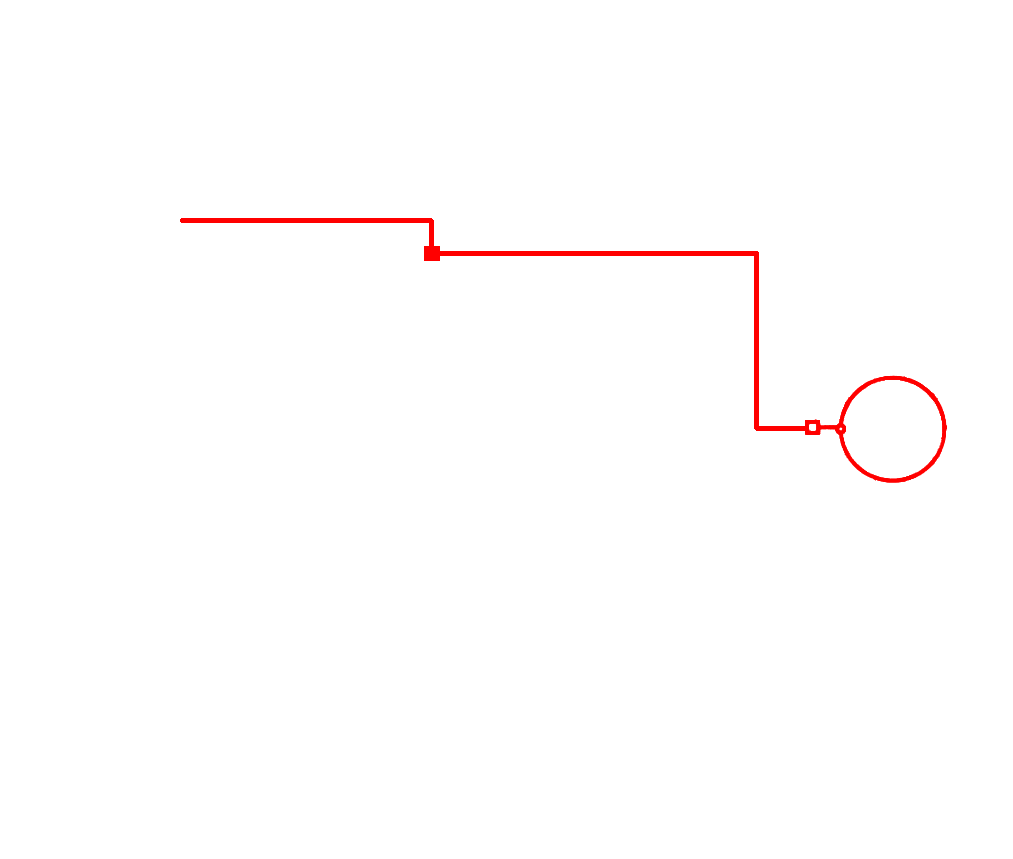
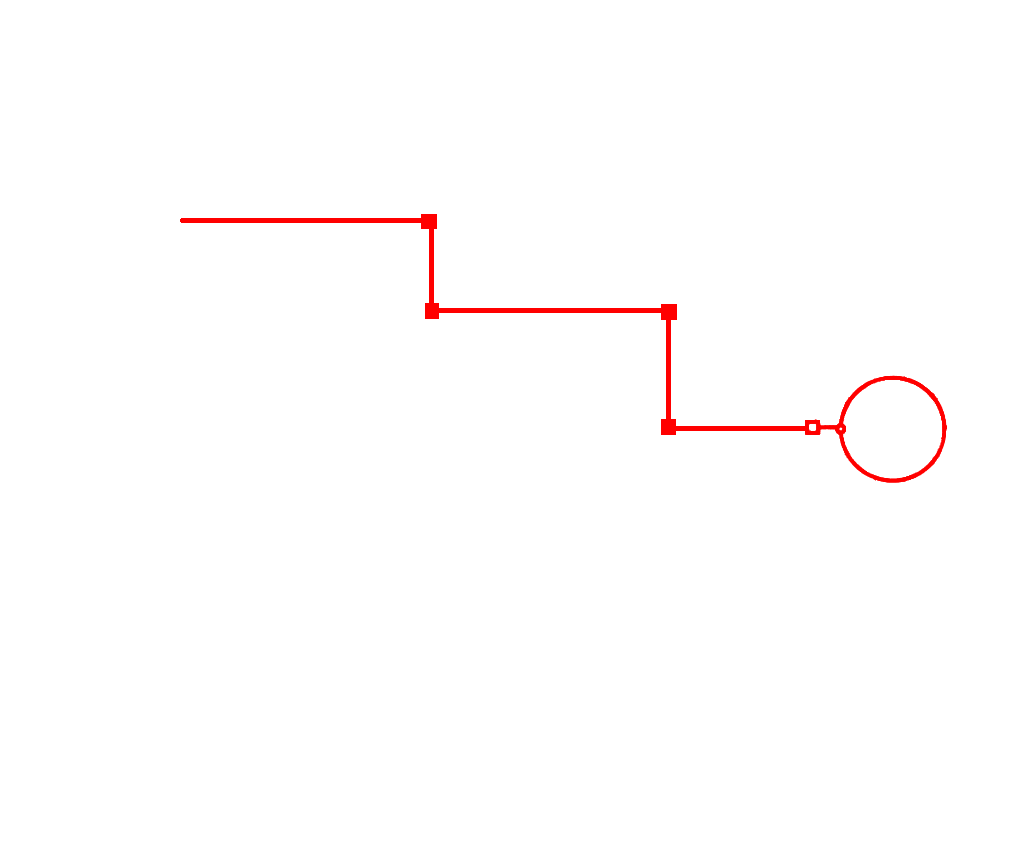
UPDATE v1.2
Poprawiono ścieżki(nie nachodzą na siebie),
Dodano czas w którym należy ukończyć hacka(20s),
Wybór ścieżki nie powoduje już utraty baterii.

Changed region(s): [[0.3978, 0.2724, 0.7651, 0.5146], [0.3978, 0.2421, 0.4284, 0.2724]]

diff --git a/voltlab.js b/voltlab.js
@@ -127,7 +127,8 @@
         result = 0;
         focusKey = 0;
         batteries = 6;
-        battery_charge = 5;
+        battery_charge = 7;
+        is_end = false;
         left_pins;
 		constructor() {
 			this.layerBackground = document.getElementById("layerBackground").getContext("2d");
@@ -146,6 +147,7 @@
             this.draw_layerResult();
             this.draw();
             window.addEventListener('keydown',this.check.bind(this),false);
+            this.time_event_battery();
         }
         animation_connections()
         {
@@ -158,53 +160,52 @@
               });
         }
 		check(e) {
-			var code = e.keyCode;
-			switch (code) {
-			case 37: 
-                this.sub_battery_charge()
-                key_switch_sound.play();
-                this.left_pins[this.focusKey].left_control(); 
-                this.draw();  
-                break; //Left key
-			case 38: 
-                this.sub_battery_charge()
-                key_switch_sound.play();
-                this.left_pins[this.focusKey].focus = -1;
-                this.up_control(); 
-                this.left_pins[this.focusKey].focus = 0; 
-                this.draw(); 
-                break; //Up key
-			case 39: 
-                this.sub_battery_charge()
-                key_switch_sound.play();
-                this.left_pins[this.focusKey].right_control();
-                this.draw(); 
-            break; //Right key
-			case 40: 
-                this.sub_battery_charge()
-                key_switch_sound.play();
-                this.left_pins[this.focusKey].focus = -1; 
-                this.down_control(); 
-                this.left_pins[this.focusKey].focus = 0; 
-                this.draw(); 
-                break; //Down key
-            case 13: 
-                if(this.left_pins[this.focusKey].connections[0] == false && this.left_pins[this.focusKey].connections[1] == false &&
-                    this.left_pins[this.focusKey].connections[2] == false)
-                    {
-                        if(this.left_pins[0].connections[this.left_pins[this.focusKey].focus] +
-                        this.left_pins[1].connections[this.left_pins[this.focusKey].focus] +
-                        this.left_pins[2].connections[this.left_pins[this.focusKey].focus] == 0)
+            if(!this.is_end)
+            {
+                var code = e.keyCode;
+                switch (code) {
+                case 37: 
+                    key_switch_sound.play();
+                    this.left_pins[this.focusKey].left_control(); 
+                    this.draw();  
+                    break; //Left key
+                case 38: 
+                    key_switch_sound.play();
+                    this.left_pins[this.focusKey].focus = -1;
+                    this.up_control(); 
+                    this.left_pins[this.focusKey].focus = 0; 
+                    this.draw(); 
+                    break; //Up key
+                case 39: 
+                    key_switch_sound.play();
+                    this.left_pins[this.focusKey].right_control();
+                    this.draw(); 
+                break; //Right key
+                case 40: 
+                    key_switch_sound.play();
+                    this.left_pins[this.focusKey].focus = -1; 
+                    this.down_control(); 
+                    this.left_pins[this.focusKey].focus = 0; 
+                    this.draw(); 
+                    break; //Down key
+                case 13: 
+                    if(this.left_pins[this.focusKey].connections[0] == false && this.left_pins[this.focusKey].connections[1] == false &&
+                        this.left_pins[this.focusKey].connections[2] == false)
                         {
-                            this.left_pins[this.focusKey].connections[this.left_pins[this.focusKey].focus] = true;
-                            this.animation_connections();
-                            switch_sound.play();
-                            this.check_end();
+                            if(this.left_pins[0].connections[this.left_pins[this.focusKey].focus] +
+                            this.left_pins[1].connections[this.left_pins[this.focusKey].focus] +
+                            this.left_pins[2].connections[this.left_pins[this.focusKey].focus] == 0)
+                            {
+                                this.left_pins[this.focusKey].connections[this.left_pins[this.focusKey].focus] = true;
+                                this.animation_connections();
+                                switch_sound.play();
+                                this.check_end();
+                            }
                         }
+                break;
+                //default: alert(code); //Everything else
                     }
-            break;
-			//default: alert(code); //Everything else
-				}
+            }
 		}
         sub_battery_charge()
         {
@@ -212,10 +213,21 @@
             this.check_end();
             if(this.battery_charge < 0)
             {
-                this.battery_charge = 5;
+                this.battery_charge = 3;
                 this.batteries = this.batteries - 1;
                 
                 this.draw_layerBattery();
+            }
+        }
+        time_event_battery()
+        {
+            if(!this.is_end)
+            {
+                var self = this;
+                window.setTimeout(function() {
+                    self.sub_battery_charge();
+                    self.time_event_battery();
+                }, 500); 
             }
         }
         check_end()
@@ -234,8 +246,10 @@
                 this.fail_end();
             }
         }
+        
         success_end()
         {
+            this.is_end = true;
             loading_sound.play();
             document.getElementById("scene").style.display="none";
             window.removeEventListener('keydown',this.check.bind(this),false);
@@ -243,6 +257,7 @@
         }
         fail_end()
         {
+            this.is_end = true;
             loading_sound.play();
             document.getElementById("scene").style.display="none";
             window.removeEventListener('keydown',this.check.bind(this),false);
